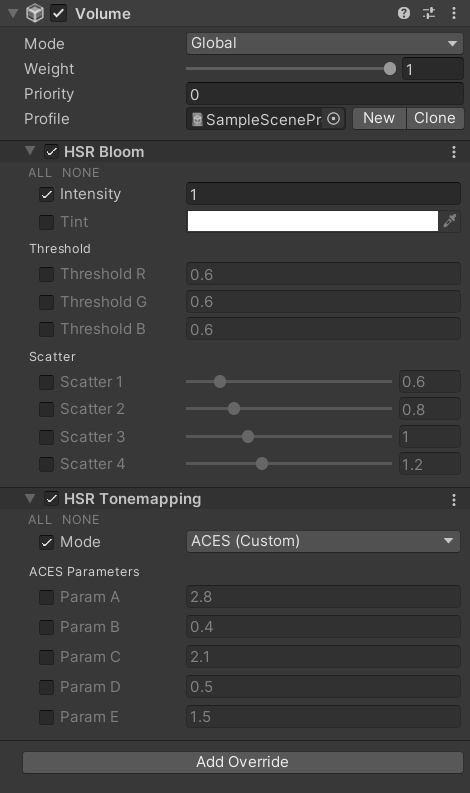
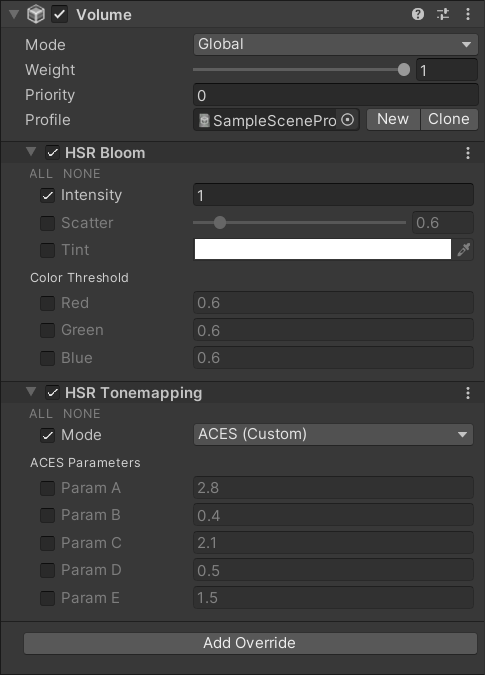
Improve postprocessing

diff --git a/Scripts/Runtime/Passes/PostProcessPass.cs b/Scripts/Runtime/Passes/PostProcessPass.cs
@@ -43,7 +43,7 @@ namespace HSR.NPRShader.Passes
 
         public PostProcessPass(ForwardGBuffers gBuffers)
         {
-            renderPassEvent = RenderPassEvent.BeforeRenderingPostProcessing;
+            renderPassEvent = RenderPassEvent.AfterRenderingPostProcessing;
             profilingSampler = new ProfilingSampler("CustomPostProcessing");
 
             m_GBuffers = gBuffers;
@@ -161,7 +161,7 @@ namespace HSR.NPRShader.Passes
                 RTHandle lastRTHandle = m_BloomHighlight;
                 for (int i = 0; i < m_BloomMipDownCount; i++)
                 {
-                    // use bilinear (pass 1) to avoid flickering
+                    // use bilinear (pass 1)
                     Blitter.BlitCameraTexture(cmd, lastRTHandle, m_BloomMipDown1[i],
                         RenderBufferLoadAction.DontCare, RenderBufferStoreAction.Store, blitMaterial, 1);
                     lastRTHandle = m_BloomMipDown1[i];
@@ -170,7 +170,7 @@ namespace HSR.NPRShader.Passes
                 // Blur vertical
                 for (int i = 0; i < m_BloomMipDownCount; i++)
                 {
-                    cmd.SetGlobalFloat(PropertyUtils._BloomScatter, GetBloomScatterByIndex(i));
+                    cmd.SetGlobalFloat(PropertyUtils._BloomScatter, m_BloomConfig.Scatter.value);
                     Blitter.BlitCameraTexture(cmd, m_BloomMipDown1[i], m_BloomMipDown2[i],
                         RenderBufferLoadAction.DontCare, RenderBufferStoreAction.Store, bloomMaterial, 1);
                 }
@@ -178,28 +178,19 @@ namespace HSR.NPRShader.Passes
                 // Blur horizontal
                 for (int i = 0; i < m_BloomMipDownCount; i++)
                 {
-                    cmd.SetGlobalFloat(PropertyUtils._BloomScatter, GetBloomScatterByIndex(i));
+                    cmd.SetGlobalFloat(PropertyUtils._BloomScatter, m_BloomConfig.Scatter.value);
                     Blitter.BlitCameraTexture(cmd, m_BloomMipDown2[i], m_BloomMipDown1[i],
                         RenderBufferLoadAction.DontCare, RenderBufferStoreAction.Store, bloomMaterial, 2);
                 }
 
-                // Add m_BloomMipDown1[1..] to m_BloomMipDown1[0]
-                for (int i = 1; i < m_BloomMipDownCount; i++)
+                // Mip up
+                for (int i = m_BloomMipDownCount - 1; i >= 1; i--)
                 {
-                    Blitter.BlitCameraTexture(cmd, m_BloomMipDown1[i], m_BloomMipDown1[0],
+                    Blitter.BlitCameraTexture(cmd, m_BloomMipDown1[i], m_BloomMipDown1[i - 1],
                         RenderBufferLoadAction.Load, RenderBufferStoreAction.Store, bloomMaterial, 3);
                 }
             }
         }
-
-        private float GetBloomScatterByIndex(int i) => i switch
-        {
-            0 => m_BloomConfig.Scatter1.value,
-            1 => m_BloomConfig.Scatter2.value,
-            2 => m_BloomConfig.Scatter3.value,
-            3 => m_BloomConfig.Scatter4.value,
-            _ => throw new NotSupportedException()
-        };
 
         #endregion
 

diff --git a/Scripts/Runtime/PostProcessing/CustomBloom.cs b/Scripts/Runtime/PostProcessing/CustomBloom.cs
@@ -31,20 +31,14 @@ namespace HSR.NPRShader.PostProcessing
     public class CustomBloom : VolumeComponent, IPostProcessComponent
     {
         public MinFloatParameter Intensity = new(0, 0);
+        public ClampedFloatParameter Scatter = new(0.6f, 0.2f, 4.0f);
         public ColorParameter Tint = new(Color.white, false, false, true);
 
-        [Header("Threshold")]
+        [Header("Color Threshold")]
 
-        public MinFloatParameter ThresholdR = new(0.6f, 0);
-        public MinFloatParameter ThresholdG = new(0.6f, 0);
-        public MinFloatParameter ThresholdB = new(0.6f, 0);
-
-        [Header("Scatter")]
-
-        public ClampedFloatParameter Scatter1 = new(0.6f, 0.2f, 3.0f);
-        public ClampedFloatParameter Scatter2 = new(0.8f, 0.2f, 3.0f);
-        public ClampedFloatParameter Scatter3 = new(1.0f, 0.2f, 3.0f);
-        public ClampedFloatParameter Scatter4 = new(1.2f, 0.2f, 3.0f);
+        [DisplayInfo(name = "Red")] public MinFloatParameter ThresholdR = new(0.6f, 0);
+        [DisplayInfo(name = "Green")] public MinFloatParameter ThresholdG = new(0.6f, 0);
+        [DisplayInfo(name = "Blue")] public MinFloatParameter ThresholdB = new(0.6f, 0);
 
         public CustomBloom()
         {

diff --git a/Scripts/Runtime/PostProcessing/CustomTonemapping.cs b/Scripts/Runtime/PostProcessing/CustomTonemapping.cs
@@ -34,11 +34,11 @@ namespace HSR.NPRShader.PostProcessing
 
         [Header("ACES Parameters")]
 
-        [DisplayInfo(name = "Param A"), AdditionalProperty] public FloatParameter ACESParamA = new(2.80f);
-        [DisplayInfo(name = "Param B"), AdditionalProperty] public FloatParameter ACESParamB = new(0.40f);
-        [DisplayInfo(name = "Param C"), AdditionalProperty] public FloatParameter ACESParamC = new(2.10f);
-        [DisplayInfo(name = "Param D"), AdditionalProperty] public FloatParameter ACESParamD = new(0.50f);
-        [DisplayInfo(name = "Param E"), AdditionalProperty] public FloatParameter ACESParamE = new(1.50f);
+        [DisplayInfo(name = "Param A")] public FloatParameter ACESParamA = new(2.80f);
+        [DisplayInfo(name = "Param B")] public FloatParameter ACESParamB = new(0.40f);
+        [DisplayInfo(name = "Param C")] public FloatParameter ACESParamC = new(2.10f);
+        [DisplayInfo(name = "Param D")] public FloatParameter ACESParamD = new(0.50f);
+        [DisplayInfo(name = "Param E")] public FloatParameter ACESParamE = new(1.50f);
 
         public CustomTonemapping()
         {
